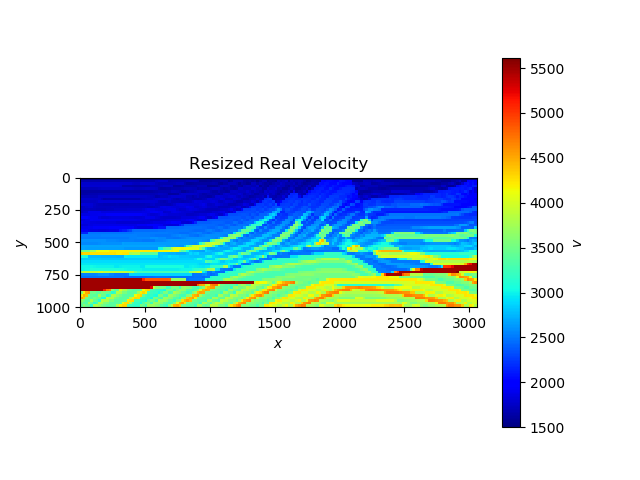
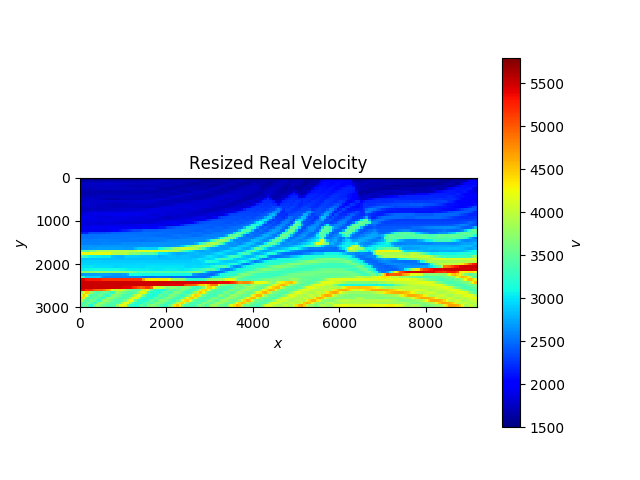
finish fixing pb of HW5 and waiting for the result from a cluster

diff --git a/HW05/pb3/regularization.py b/HW05/pb3/regularization.py
@@ -25,7 +25,7 @@ def main():
 
     v_real = np.divide(1.0, s_real)
     plt.imshow(
-        v_real.reshape(settings.NX, settings.NY), cmap='jet',
+        v_real.reshape(settings.NX, settings.NY).T, cmap='jet',
         extent=[0, settings.DX*settings.NX, settings.DX*settings.NY, 0],
         vmin=settings.COLOR_VMIN, vmax=settings.COLOR_VMAX,
     )
@@ -73,13 +73,13 @@ def main():
                 ),
                 np.matmul(L.T, r)
             ))
-            # pk = np.divide(pk, np.max(np.abs(pk)))
             pk = utility.smooth_map(pk, mode='uniform', kernel_size=(10, 40))
 
             s_model = np.add(
                 s_model,
                 pk
             )
+            s_model = utility.prevent_negative_velocity(s_model) # fix negative value for slowness
             L = utility.get_l(s_model, recalculate=True)
             res = utility.get_r(t_obs, s_model, L)
             LOG_RES.append(res)

diff --git a/HW05/utility.py b/HW05/utility.py
@@ -12,7 +12,7 @@ def readraw(filename):
     if settings.is_reduce_size:
         a = np.fromfile(f, dtype=np.float32)
         a = a.reshape(461, 151)
-        a = resize(a, (settings.NY, settings.NX))
+        a = resize(a, (settings.NX, settings.NY))
         return a.reshape(settings.NX*settings.NY)
     return np.fromfile(f, dtype=np.float32)
 
@@ -174,6 +174,10 @@ def grad(t_obs, s_model, L, norm=True):
         L,
     )
     return np.divide(_grad, np.linalg.norm(_grad)) if norm else _grad
+
+def prevent_negative_velocity(s_model):
+    _func = np.vectorize(lambda x: x if x > 0.0 else 1e-5)
+    return _func(s_model)
 
 def smooth_map(s_real, kernel_size=(100, 100), mode='gaussian', pad_model='edge'):
     if settings.is_reduce_size:

diff --git a/HW05/settings.py b/HW05/settings.py
@@ -16,6 +16,7 @@ FACTOR = 3
 if is_reduce_size:
     NX = int(NX/FACTOR)
     NY = int(NY/FACTOR)
+    DX = 20.0*FACTOR
 
 # COLORBAR
 COLOR_VMAX = 5800
